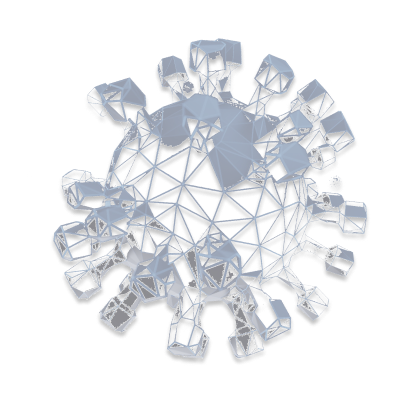
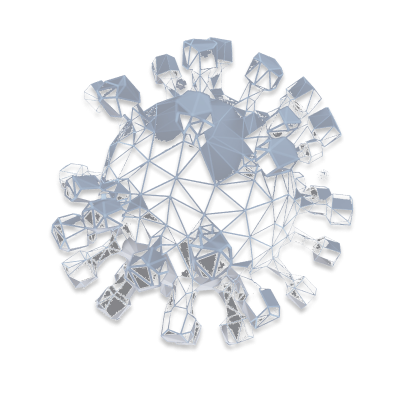
add animation in row and bah scroll

diff --git a/src/Components/Sections/Design/Design.jsx b/src/Components/Sections/Design/Design.jsx
@@ -7,6 +7,9 @@ import designCard1 from '../../../assets/img/designCard1.png';
 import designCard2 from '../../../assets/img/designCard2.png';
 import designCard3 from '../../../assets/img/designCard3.png';
 import { FiArrowUpRight } from 'react-icons/fi';
+import arrow from '../../../assets/svg/arrow.svg';
+import pin from '../../../assets/img/Pin.png';
+import motion from '../../../assets/img/motion.png';
 import './design.scss';
 
 function Design() {
@@ -89,7 +92,9 @@ function Design() {
                 className='swiper-design'
             >
                 <div className="design__card">
-                    <img src={designCard1} alt="" className='design__card-img' />
+                    <div className='design__card-img design__card-img--pin'>
+                        <img src={pin} alt="" />
+                    </div>
                     <p className='design__card-title'>Product Strategy</p>
                     <p className='design__card-text'>We help to build your brand’s mission, vision and values while creating your unique identity and position in the market. We love to make people feel something by crafting stories that connect to people’s hearts.</p>
                 </div>
@@ -100,7 +105,9 @@ function Design() {
                     <p className='design__card-text'>We help your brand find its voice and communicate your values to inspire customers to choose you, by creating a unique identity for you which helps you stand out from the crowd. </p>
                 </div>
                 <div className="design__card">
-                    <img src={designCard3} alt="" className='design__card-img' />
+                    <div className='design__card-img design__card-img--browser'>
+                        <img src={arrow} alt="" />
+                    </div>
                     <p className='design__card-title'>UI/UX Design</p>
                     <p className='design__card-text'>Boost your brand awareness and customer loyalties, increase product revenues and conversion rates with the implementation of user experience and user interface design.</p>
                 </div>
@@ -108,13 +115,15 @@ function Design() {
                     <div className="design__card-square"></div>
                     <img src={server} alt="" className='design__card-server-img' />
                     <img src={activeServer} alt="" className='design__card-server-img--active' />
-                    {/* <img src={designCard4} alt="" className='design__card-img' /> */}
                     <p className='design__card-logo-title'>Logo</p>
                     <p className='design__card-title'>Prototype</p>
                     <p className='design__card-text'>We help your brand find its voice and communicate your values to inspire customers to choose you, by creating a unique identity for you which helps you stand out from the crowd. </p>
                 </div>
                 <div className="design__card">
-                    <img src={designCard3} alt="" className='design__card-img' />
+                    <div className='design__card-img design__card-img--motion'>
+                        <span className='design__card-circle design__card-circle--pink'></span>
+                        <span className='design__card-circle design__card-circle--purple'></span>
+                    </div>
                     <p className='design__card-title'>Web Design</p>
                     <p className='design__card-text'>The process of planning and building the elements of the website. Creation of the overall visual appearance of the website.</p>
                 </div>

diff --git a/src/Pages/MainPage/Test.jsx b/src/Pages/MainPage/Test.jsx
@@ -2,10 +2,18 @@ import React from 'react';
 import { Swiper, SwiperSlide } from 'swiper/react';
 import { Mousewheel, Pagination } from "swiper";
 import './test.scss';
+import { useRef } from 'react';
 
 function Test() {
+    const swiperRef = useRef(null)
     return (
         <div className='wrap'>
+            <ul className='wrap__list'>
+                <li className='wrap__item' onClick={() => swiperRef.current.swiper.slideToLoop(1, 2000)}>1</li>
+                <li className='wrap__item' onClick={() => swiperRef.current.swiper.slideToLoop(2, 2000)}>2</li>
+                <li className='wrap__item' onClick={() => swiperRef.current.swiper.slideToLoop(3, 2000)}>3</li>
+                <li className='wrap__item' onClick={() => swiperRef.current.swiper.slideToLoop(4, 2000)}>4</li>
+            </ul>
             <Swiper
                 onSlideChange={() => console.log('slide change')}
                 onSwiper={(swiper) => console.log(swiper)}
@@ -16,6 +24,7 @@ function Test() {
                 grabCursor={true} // менять иконку курсора
                 modules={[Mousewheel, Pagination]}
                 speed={1100}
+                ref={swiperRef}
             >
                 <SwiperSlide>
                     <section className='container'>
@@ -38,33 +47,6 @@ function Test() {
                     </section>
                 </SwiperSlide>
             </Swiper>
-            {/* <section class="slider">
-                <div class="container">
-                    <div class="slider__flex">
-                        <div class="slider__images">
-                            <div class="swiper-container">
-                            <div class="swiper-wrapper">
-                                <div class="swiper-slide">
-                                    <div class="slider__image"><img src="https://picsum.photos/1920/1080" alt=""/></div>
-                                </div>
-                                <div class="swiper-slide">
-                                    <div class="slider__image"><img src="https://picsum.photos/1920/1081" alt=""/></div>
-                                </div>
-                                <div class="swiper-slide">
-                                    <div class="slider__image"><img src="https://picsum.photos/1920/1082" alt=""/></div>
-                                </div>
-                                <div class="swiper-slide">
-                                    <div class="slider__image"><img src="https://picsum.photos/1920/1083" alt=""/></div>
-                                </div>
-                                <div class="swiper-slide">
-                                    <div class="slider__image"><img src="https://picsum.photos/1920/1084" alt=""/></div>
-                                </div>
-                            </div>
-                            </div>
-                        </div>
-                    </div>
-                </div>
-            </section> */}
         </div>
     )
 }

diff --git a/src/Components/Sections/Design/design.scss b/src/Components/Sections/Design/design.scss
@@ -114,6 +114,74 @@
                 object-fit: cover;
                 width: 100%;
             }
+            .design__card-img--browser {
+                background: url(../../../assets/img/Browser.png) no-repeat center;
+                position: relative;
+                transition: 0.2s all;
+                img {
+                    position: absolute;
+                    bottom: 30px;
+                    left: 117px;
+                    transition: 0.3s ease-out;
+                }
+                &:hover {
+                    background: url(../../../assets/img/browserHover.png) no-repeat center;
+                    img {
+                        bottom: 100px;
+                        left: 200px;
+                    }
+                }
+            }
+            .design__card-img--pin {
+                background: url(../../../assets/img/graph.png) no-repeat center;
+                position: relative;
+                transition: 0.2s all;
+                img {
+                    position: absolute;
+                    bottom: -5px;
+                    left: 16px;
+                    transition: 0.3s ease-out;
+                }
+                &:hover {
+                    background: url(../../../assets/img/graphHover.png) no-repeat center;
+                    img {
+                        bottom: 27px;
+                        left: 94px;
+                    }
+                }
+            }
+            .design__card-img--motion {
+                background: url(../../../assets/img/motion.png) no-repeat center;
+                position: relative;
+                transition: 0.3s all;
+                .design__card-circle {
+                    width: 33px;
+                    height: 33px;
+                    display: block;
+                    background-color: #F015B0;
+                    border-radius: 50%;
+                    position: absolute;
+                    transition: 0.5s ease-in-out;
+                }
+                .design__card-circle--pink {
+                    top: 49px;
+                    left: 100px;
+                }
+                .design__card-circle--purple {
+                    background-color: #9747FF;
+                    top: 97px;
+                    left: 225px;
+                }
+                &:hover {
+                    background: url(../../../assets/img/motionHover.png) no-repeat center;
+                    .design__card-circle--pink {
+                        left: 230px;
+                    }
+                    .design__card-circle--purple {
+                        left: 100px;
+                    }
+                }
+            }
             .design__card-img-letter {
                 position: absolute;
                 left: 50%;

diff --git a/src/Components/Sections/Outsourcing/Outsourcing.jsx b/src/Components/Sections/Outsourcing/Outsourcing.jsx
@@ -22,42 +22,10 @@ function Outsourcing({ setModal }) {
     });
 
     const onMouseMove = (event) => {
-        console.log('eventTar', event.target)
-        console.log('event.target.offsetTop', event.currentTarget.offsetTop);
-
         const localX = event.clientX - event.currentTarget.offsetLeft;
         const localY = event.clientY - event.currentTarget.offsetTop;
-        
-        console.log('HELLLO', event.clientY - event.currentTarget.offsetTop);
-        console.log('offsetLeft', event.target.offsetLeft)
-        console.log('clientX', event.clientX)
-        console.log('clientY', event.clientY);
-        console.log('diff', event.clientX - event.target.offsetLeft);
-        console.log('event.currentTarget', event.target.clientHeight);
-
         setLocalMousePos({ X: localX, Y: localY });
     }
-
-    const step = () => {
-        // let targetX = mouse.X;
-        // let dx = targetX - mouse.CX;
-        // let targetY = mouse.Y;
-        // let dy = targetY - mouse.CY;
-        // setMouse({...mouse, CX: mouse.X , CY: mouse.Y });
-
-        /*
-            offsetY - 976!!!
-            cursor по Y always change
-            180 - x ||| 130 - y
-        */
-
-/*         const light = document.getElementById('light');
-
-        light.style.background = 'radial-gradient(circle at ' + mouse.CX + 'px ' + 70 + 'px, #fff, transparent)'; */
-
-    };
-
-    requestAnimationFrame(step); 
 
     useEffect(() => {
         const onMouseGlobalMove = (e) => {
@@ -68,12 +36,9 @@ function Outsourcing({ setModal }) {
         window.addEventListener('mousemove', onMouseGlobalMove);
         return () => {
             window.removeEventListener('mousemove', onMouseGlobalMove);
-            cancelAnimationFrame(step)
         }
     }, []);
 
-    // console.log(localMousePos);
-    console.log('GLOBAL X Y', globalMousePos);
     return (
         <section className='outsourcing'>
             <div className="outsourcing__wrap">
@@ -111,7 +76,7 @@ function Outsourcing({ setModal }) {
                             </div>
                         </div>
                     </li>
-                    <li className="outsourcing__table-wrapper outsourcing__card-mob">
+                    <li className="outsourcing__table-wrapper outsourcing__card-mob" onMouseMove={onMouseMove}>
                         <span></span>
                         <span></span>
                         <span></span>

diff --git a/src/Components/Sections/Location/location.scss b/src/Components/Sections/Location/location.scss
@@ -30,6 +30,10 @@
                 display: flex;
                 align-items: center;
                 margin-right: 16px;
+                background: transparent;
+                border: 1px solid transparent;
+                border-radius: 4px;
+                padding: 8px;
                 cursor: pointer;
                 .location__selector-img {
                     width: 48px;
@@ -46,6 +50,10 @@
                 display: flex;
                 align-items: center;
                 cursor: pointer;
+                background: transparent;
+                border: 1px solid transparent;
+                border-radius: 4px;
+                padding: 8px;
                 .location__selector-img {
                     margin-right: 12px;
                 }
@@ -60,7 +68,7 @@
                 background: #2A2B3A;
                 border: 1px solid #2A2B3A;
                 border-radius: 4px;
-                padding: 8px    ;
+                padding: 8px;
                 .location__selector-name {
                     color: #FFFFFF;
                 }

diff --git a/src/Pages/MainPage/MainPage.jsx b/src/Pages/MainPage/MainPage.jsx
@@ -13,10 +13,12 @@ import Scheme from '../../Components/Sections/Scheme/Scheme';
 import Business from '../../Components/Sections/Business/Business';
 import Location from '../../Components/Sections/Location/Location';
 import Footer from '../../Components/Footer/Footer';
+import { useNavigate } from 'react-router-dom';
 
 function MainPage() {
 
     const [modal, setModal] = useState(false);
+    const navigate = useNavigate();
 
     return (
         <React.Fragment>
@@ -26,7 +28,7 @@ function MainPage() {
             <Header/>
             <main className="main">
                 <Welcome setModal={setModal} />
-                <p className='main__scroll-text'>scroll down <AiOutlineArrowDown className='main__scroll-icon' /></p>
+                <p className='main__scroll-text'>scroll down <AiOutlineArrowDown className='main__scroll-icon' onClick={() => navigate('/test')} /></p>
                 <Experience />
                 <Development setModal={setModal} />
                 <Outsourcing setModal={setModal} />

diff --git a/src/Components/Sections/Outsourcing/outsourcing.scss b/src/Components/Sections/Outsourcing/outsourcing.scss
@@ -13,6 +13,7 @@
             grid-template-columns: repeat(3, 1fr);
             grid-template-rows: repeat(3, 1fr);
             gap: 30px;
+            padding: 10px 0;
             .outsourcing__table-wrapper {
                 position: relative;
                 z-index: 10;
@@ -145,7 +146,7 @@
         filter: blur(5px);
         transition: 0.3s all;
         &:hover {
-            transform: scale(1.05);
+            transform: scale(1.04);
             filter: blur(0);
         }
     }
@@ -156,7 +157,7 @@
         transform: translateX(-50%);
         transition: 0.3s all;
         &:hover {
-            transform: scale(1.05) translateX(-48%);
+            transform: scale(1.04) translateX(-48%);
         }
     }
     .outsourcing__bg3 {
@@ -166,7 +167,7 @@
         right: 0;
         transition: 0.3s all;
         &:hover {
-            transform: scale(1.05) translateY(-48%);
+            transform: scale(1.04) translateY(-48%);
         }
     }
 }

diff --git a/src/Pages/MainPage/test.scss b/src/Pages/MainPage/test.scss
@@ -16,6 +16,23 @@
     .swiper-slide, .swiper-slide-active {
         transition: 5s all !important;
     }
+    .wrap__list {
+        display: flex;
+        justify-content: center;
+        align-items: center;
+        margin-top: 20px;
+        z-index: 123;
+        .wrap__item {
+            margin-right: 15px;
+            font-size: 36px;
+            color: #fff;
+            z-index: 1457;
+            cursor: pointer;
+            &:hover {
+                font-size: 40px;
+            }
+        }
+    }
 }
 
 .container {

diff --git a/public/index.html b/public/index.html
@@ -29,11 +29,11 @@
   <body>
     <noscript>You need to enable JavaScript to run this app.</noscript>
     <div id="root"></div>
-<!--     <script type="module">
+    <script type="module">
       import { Application } from './runtime.js';
       const canvas = document.getElementById('canvas3d');
       const app = new Application(canvas);
       app.load('./scene.splinecode');
-    </script> -->
+    </script>
   </body>
 </html>
